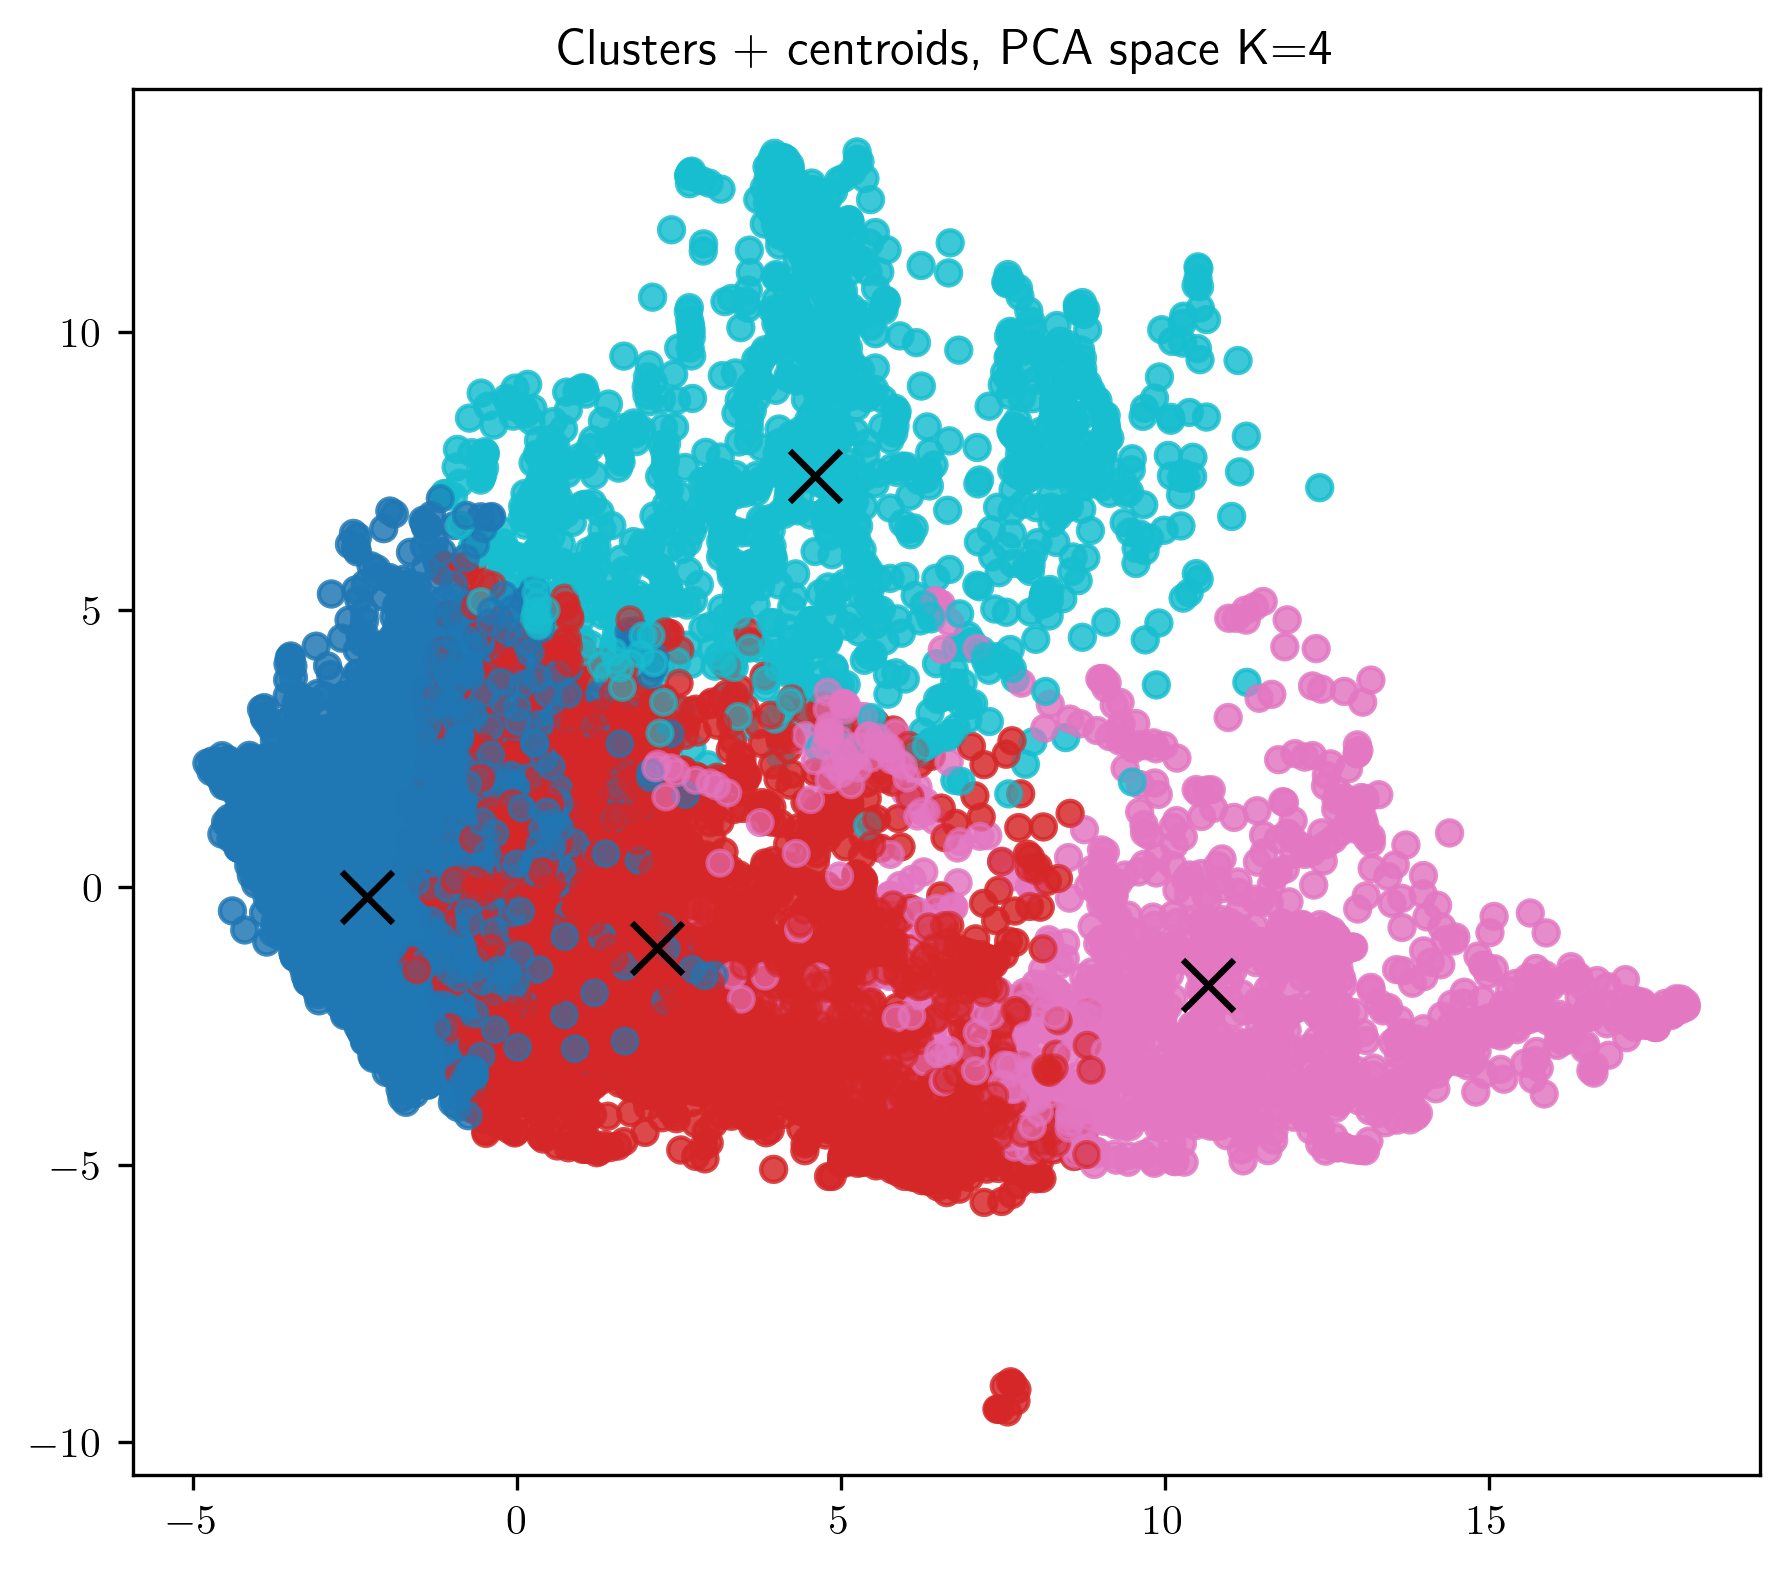
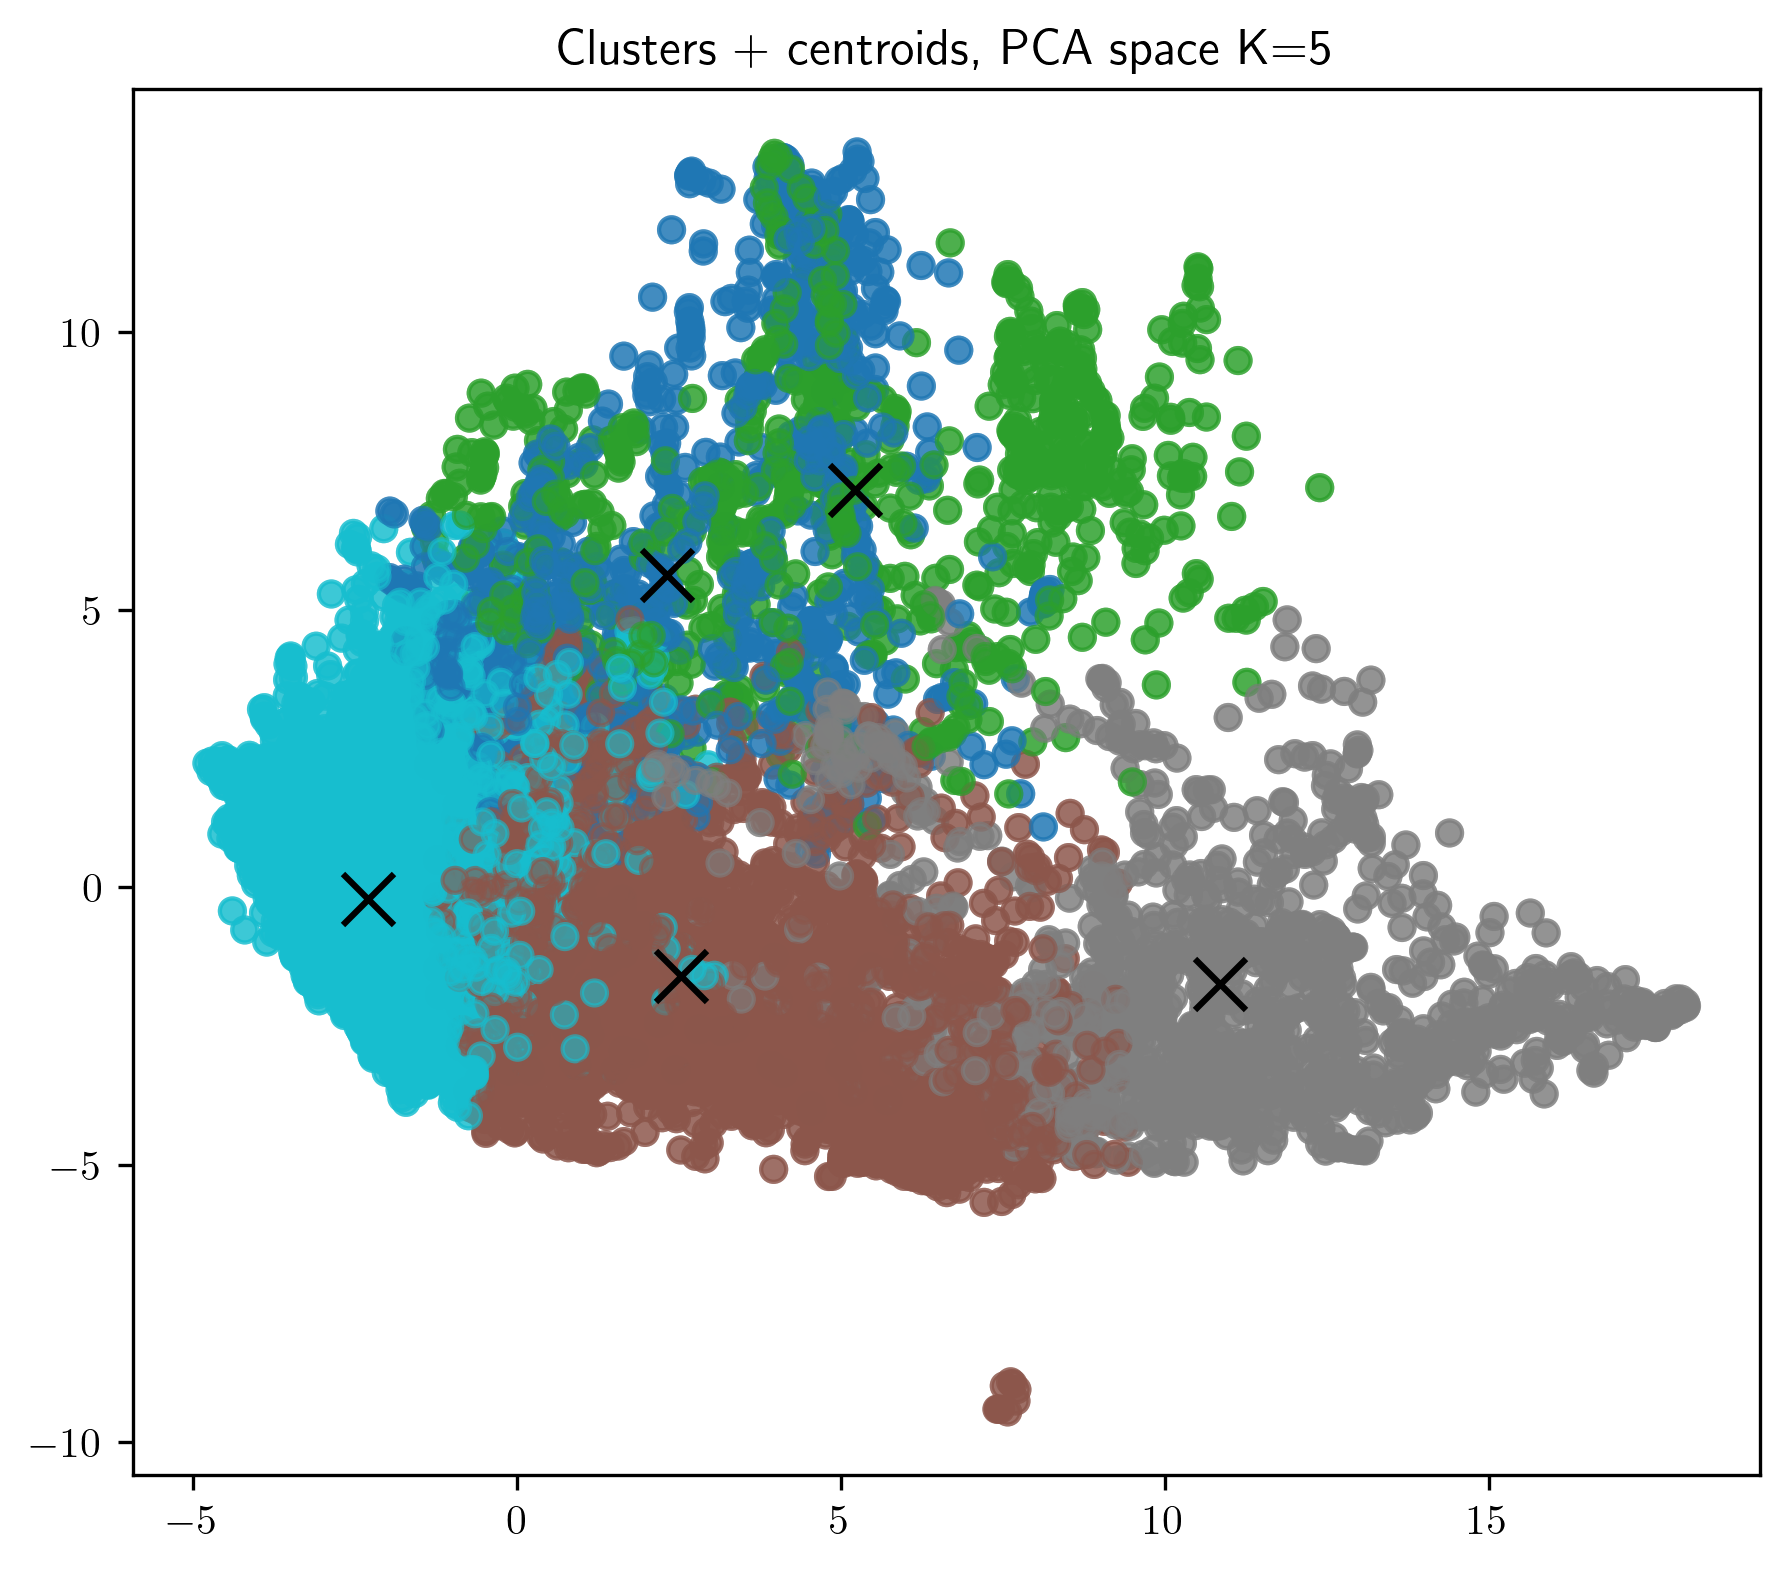
added 2d projection visualiziation to features (best for the report/website) add some additional visualization to kmeans_geusture kideal = 5 seems to yield the most distant results Key added details: Averaged hands based on guestures (removed a thumb joint that connects wrist to thumb)

Changed region(s): [[0.0922, 0.0936, 0.9525, 0.7798], [0.5531, 0.8733, 0.5838, 0.9045]]

diff --git a/features.py b/features.py
@@ -173,40 +173,19 @@ X = StandardScaler().fit_transform(X)
 # plt.show()
 
 
-# then cluster (e.g. K-means) on X, not D
-Kideal_D = 4
-kmeans_D = KMeans(n_clusters=Kideal_D, n_init=10, random_state=0)
-labels_D = kmeans_D.fit_predict(D)
-
-Kideal = 4
+Kideal = 5
 kmeans = KMeans(n_clusters=Kideal, n_init=10, random_state=0)
 labels = kmeans.fit_predict(X)
 
-# X = build_feature_matrix(D)
 
-# # optional but recommended
-# from sklearn.preprocessing import StandardScaler
-# X = StandardScaler().fit_transform(X)
-
-# PCA projection (your new “main plot”)
-
-pca = PCA(n_components=2)
-X_2d = pca.fit_transform(X)
-
-plt.figure(figsize=(7,6))
-plt.scatter(X_2d[:, 0], X_2d[:, 1], c=labels, cmap='tab10', alpha=0.7)
-
-plt.xlabel("PC1")
-plt.ylabel("PC2")
-plt.title("Gestures in feature space (PCA)")
-plt.grid()
-plt.show()
+## K custers visualization ##
+# # PCA projection (your new “main plot”)
 
 # pca = PCA(n_components=2)
-# D_2d = pca.fit_transform(D)
+# X_2d = pca.fit_transform(X)
 
 # plt.figure(figsize=(7,6))
-# plt.scatter(D_2d[:, 0], D_2d[:, 1], c=labels, cmap='tab10', alpha=0.7)
+# plt.scatter(X_2d[:, 0], X_2d[:, 1], c=labels, cmap='tab10', alpha=0.7)
 
 # plt.xlabel("PC1")
 # plt.ylabel("PC2")
@@ -214,27 +193,14 @@ plt.show()
 # plt.grid()
 # plt.show()
 
-
-centroids_2d = pca.transform(kmeans.cluster_centers_)
-
-plt.figure(figsize=(7,6))
-plt.scatter(X_2d[:, 0], X_2d[:, 1], c=labels, cmap='tab10', alpha=0.6)
-plt.scatter(centroids_2d[:, 0], centroids_2d[:, 1], c='black', s=150, marker='x')
-
-plt.title("Clusters + centroids, PCA space K={}".format(Kideal))
-plt.savefig(os.path.join(FIG_DIR, "kmeans_visual_feature.png"), dpi=300, bbox_inches='tight')
-# plt.show()
-
-# from sklearn.manifold import TSNE
-
-# tsne = TSNE(n_components=2, perplexity=30, random_state=0)
-# X_tsne = tsne.fit_transform(X)
+# centroids_2d = pca.transform(kmeans.cluster_centers_)
 
 # plt.figure(figsize=(7,6))
-# plt.scatter(X_tsne[:, 0], X_tsne[:, 1], c=labels, cmap='tab10', alpha=0.7)
+# plt.scatter(X_2d[:, 0], X_2d[:, 1], c=labels, cmap='tab10', alpha=0.6)
+# plt.scatter(centroids_2d[:, 0], centroids_2d[:, 1], c='black', s=150, marker='x')
 
-# plt.title("t-SNE visualization of gestures")
-# plt.show()
+# plt.title("Clusters + centroids, PCA space K={}".format(Kideal))
+# plt.savefig(os.path.join(FIG_DIR, "kmeans_visual_feature.png"), dpi=300, bbox_inches='tight')
 
 
 # ── Plotting utilities ─────────────────────────────────────────────────────
@@ -326,8 +292,174 @@ def plot_clusters_as_hands(D, labels, K, samples_per_cluster=30, mode="2d"):
                 dpi=150, bbox_inches="tight", facecolor="#0d1117")
     plt.show()
 
+def mean_hand(D, idx):
+    """
+    Average hand shape for a cluster.
+    Centers each hand before averaging so palm offsets don't blur the shape.
+    Returns (21, 3) array.
+    """
+    centered = np.array([center_hand(row_to_points(D[i])) for i in idx])
+    return centered.mean(axis=0)  # (21, 3)
+
+
+def plot_average_gestures(D, labels, K, mode="2d"):
+    show_both = (mode == "both")
+    n_rows = 2 if show_both else 1
+
+    fig = plt.figure(figsize=(4 * K, 4 * n_rows), facecolor="#0d1117")
+
+    for k in range(K):
+        idx = np.where(labels == k)[0]
+        avg_pts = mean_hand(D, idx)  # (21, 3)
+
+        # ── 2D ──────────────────────────────────────────────────────────
+        if mode in ("2d", "both"):
+            ax2 = fig.add_subplot(n_rows, K, k + 1)
+            ax2.set_facecolor("#0d1117")
+            plot_hand_2d(avg_pts, ax2, alpha=0.95, lw=2.0)
+            ax2.set_title(f"Cluster {k}  (n={len(idx)})", color="white", fontsize=10)
+            ax2.set_aspect("equal")
+            ax2.axis("off")
+
+        # ── 3D ──────────────────────────────────────────────────────────
+        if mode in ("3d", "both"):
+            row_offset = 1 if show_both else 0
+            ax3 = fig.add_subplot(n_rows, K, row_offset * K + k + 1, projection="3d")
+            ax3.set_facecolor("#0d1117")
+            ax3.tick_params(colors="gray", labelsize=6)
+            plot_hand_3d(avg_pts, ax3, alpha=0.95, lw=2.0)
+            if mode == "3d":
+                ax3.set_title(f"Cluster {k}  (n={len(idx)})", color="white", fontsize=10)
+
+    # finger colour legend
+    for f, (name, color) in enumerate(zip(FINGER_PREFIXES.keys(), FINGER_COLORS)):
+        fig.text(0.01 + f * 0.08, 0.01, name, color=color, fontsize=8, ha="left", va="bottom")
+    fig.text(0.01 + 5 * 0.08, 0.01, "Palm", color="tomato", fontsize=8)
+
+    plt.suptitle("Average gesture per cluster", color="white", fontsize=13, y=1.01)
+    plt.tight_layout()
+    plt.savefig(f"{FIG_DIR}/clusters_average_{mode}.png",
+                dpi=150, bbox_inches="tight", facecolor="#0d1117")
+    plt.show()
+
+# Axis index pairs for each view
+VIEWS = {
+    "top": (1, 0),   # YX
+    "front":  (1, 2),   # YZ
+    "side":   (0, 2),   # XZ
+}
+
+def plot_hand_2d_proj(points, ax, axes=(0, 1), alpha=0.95, lw=2.0):
+    i, j = axes
+    base = 1
+    for f in range(5):
+        color = FINGER_COLORS[f]
+        finger_pts = points[base : base + 4]  # KNU1_B, KNU1_A, KNU2_A, KNU3_A
+
+        if f == 0:
+            # Thumb: skip KNU1_B, treat KNU1_A as the base knuckle
+            thumb_visible = finger_pts[1:]   # KNU1_A, KNU2_A, KNU3_A — (3, 3)
+            # dashed: palm → KNU1_A
+            ax.plot(
+                [points[0, i], thumb_visible[0, i]],
+                [points[0, j], thumb_visible[0, j]],
+                color=color, alpha=alpha * 0.6, lw=lw, linestyle="--",
+            )
+            # solid: KNU1_A → KNU2_A → KNU3_A
+            ax.plot(thumb_visible[:, i], thumb_visible[:, j],
+                    color=color, alpha=alpha, lw=lw)
+            ax.scatter(thumb_visible[:, i], thumb_visible[:, j],
+                       c=color, s=20, alpha=alpha, zorder=3)
+        else:
+            ax.plot(
+                [points[0, i], finger_pts[0, i]],
+                [points[0, j], finger_pts[0, j]],
+                color=color, alpha=alpha * 0.6, lw=lw, linestyle="--",
+            )
+            ax.plot(finger_pts[:, i], finger_pts[:, j],
+                    color=color, alpha=alpha, lw=lw)
+            ax.scatter(finger_pts[:, i], finger_pts[:, j],
+                       c=color, s=20, alpha=alpha, zorder=3)
+
+        base += 4
+
+    ax.scatter(points[0, i], points[0, j], c="tomato", s=40, zorder=4)
+
+def plot_average_gestures_multiview(D, labels, K):
+    """
+    For each cluster: 3 columns (front/side/top), one row per cluster.
+    """
+    view_names = list(VIEWS.keys())
+    n_views = len(view_names)
+
+    fig, axes = plt.subplots(
+        K, n_views,
+        figsize=(3.5 * n_views, 3.5 * K),
+        facecolor="#0d1117"
+    )
+
+    # ensure 2D indexing even for K=1
+    if K == 1:
+        axes = axes[np.newaxis, :]
+
+    axis_labels = {
+        "front": ("-Z →", "Y ↑"),
+        "side":  ("X →", "Y ↑"),
+        "top":   ("-Z →", "X ↑"),
+    }
+
+    for k in range(K):
+        idx = np.where(labels == k)[0]
+        avg_pts = mean_hand(D, idx)
+
+        for v, view_name in enumerate(view_names):
+            ax = axes[k, v]
+            ax.set_facecolor("#0d1117")
+            ax.set_aspect("equal")
+            ax.axis("off")
+
+            plot_hand_2d_proj(avg_pts, ax, axes=VIEWS[view_name])
+
+            # column header on top row only
+            if k == 0:
+                xl, yl = axis_labels[view_name]
+                ax.set_title(
+                    f"{view_name.capitalize()} view\n{xl}  {yl}",
+                    color="white", fontsize=10, pad=6
+                )
+
+            # cluster label on left column only
+            if v == 0:
+                ax.set_ylabel(
+                    f"Cluster {k}\n(n={len(idx)})",
+                    color="white", fontsize=9, rotation=0,
+                    labelpad=50, va="center"
+                )
+                ax.yaxis.set_label_position("left")
+                ax.axis("off")  # re-disable after ylabel
+
+    # finger legend
+    for f, (name, color) in enumerate(zip(FINGER_PREFIXES.keys(), FINGER_COLORS)):
+        fig.text(0.01 + f * 0.09, 0.005, name, color=color,
+                 fontsize=8, ha="left", va="bottom")
+    fig.text(0.01 + 5 * 0.09, 0.005, "Palm", color="tomato",
+             fontsize=8, ha="left", va="bottom")
+
+    plt.suptitle("Average gesture per cluster — multi-view",
+                 color="white", fontsize=13, y=1.01)
+    plt.tight_layout()
+    plt.savefig(f"{FIG_DIR}/clusters_average_multiview.png",
+                dpi=150, bbox_inches="tight", facecolor="#0d1117")
+    plt.show()
 
 # Pick whichever view you want:
-plot_clusters_as_hands(D, labels, Kideal, samples_per_cluster=30, mode="2d")
-plot_clusters_as_hands(D, labels, Kideal, samples_per_cluster=30, mode="3d")
+# plot_clusters_as_hands(D, labels, Kideal, samples_per_cluster=30, mode="2d")
+# plot_clusters_as_hands(D, labels, Kideal, samples_per_cluster=30, mode="3d")
 # plot_clusters_as_hands(D, labels, Kideal, samples_per_cluster=5, mode="both")  # side-by-side rows
+
+# plot_average_gestures(D, labels, Kideal, mode="2d")
+plot_average_gestures(D, labels, Kideal, mode="3d")
+# plot_average_gestures(D, labels, Kideal, mode="both")  # 2D top row, 3D bottom row
+
+plot_average_gestures_multiview(D, labels, Kideal)
+

diff --git a/kmeans_gesture_categorization.py b/kmeans_gesture_categorization.py
@@ -412,3 +412,40 @@ plt.ylabel("Silhouette Score")
 plt.title("Silhouette Method")
 plt.grid()
 plt.show()
+
+
+# PCA projection (your new “main plot”)
+
+pca = PCA(n_components=2)
+X_2d = pca.fit_transform(X)
+
+# plt.figure(figsize=(7,6))
+plt.scatter(X_2d[:, 0], X_2d[:, 1], c=labels, cmap='tab10', alpha=0.7)
+
+plt.xlabel("PC1")
+plt.ylabel("PC2")
+plt.title("Gestures in feature space (PCA)")
+plt.grid()
+plt.show()
+
+# pca = PCA(n_components=2)
+# D_2d = pca.fit_transform(D)
+
+# plt.figure(figsize=(7,6))
+# plt.scatter(D_2d[:, 0], D_2d[:, 1], c=labels, cmap='tab10', alpha=0.7)
+
+# plt.xlabel("PC1")
+# plt.ylabel("PC2")
+# plt.title("Gestures in feature space (PCA)")
+# plt.grid()
+# plt.show()
+
+
+centroids_2d = pca.transform(kmeans.cluster_centers_)
+
+plt.figure(figsize=(7,6))
+plt.scatter(X_2d[:, 0], X_2d[:, 1], c=labels, cmap='tab10', alpha=0.6)
+plt.scatter(centroids_2d[:, 0], centroids_2d[:, 1], c='black', s=150, marker='x')
+
+plt.title("Clusters + centroids, PCA space K={}".format(Kideal))
+plt.savefig(os.path.join(FIG_DIR, "kmeans_visual_feature.png"), dpi=300, bbox_inches='tight')